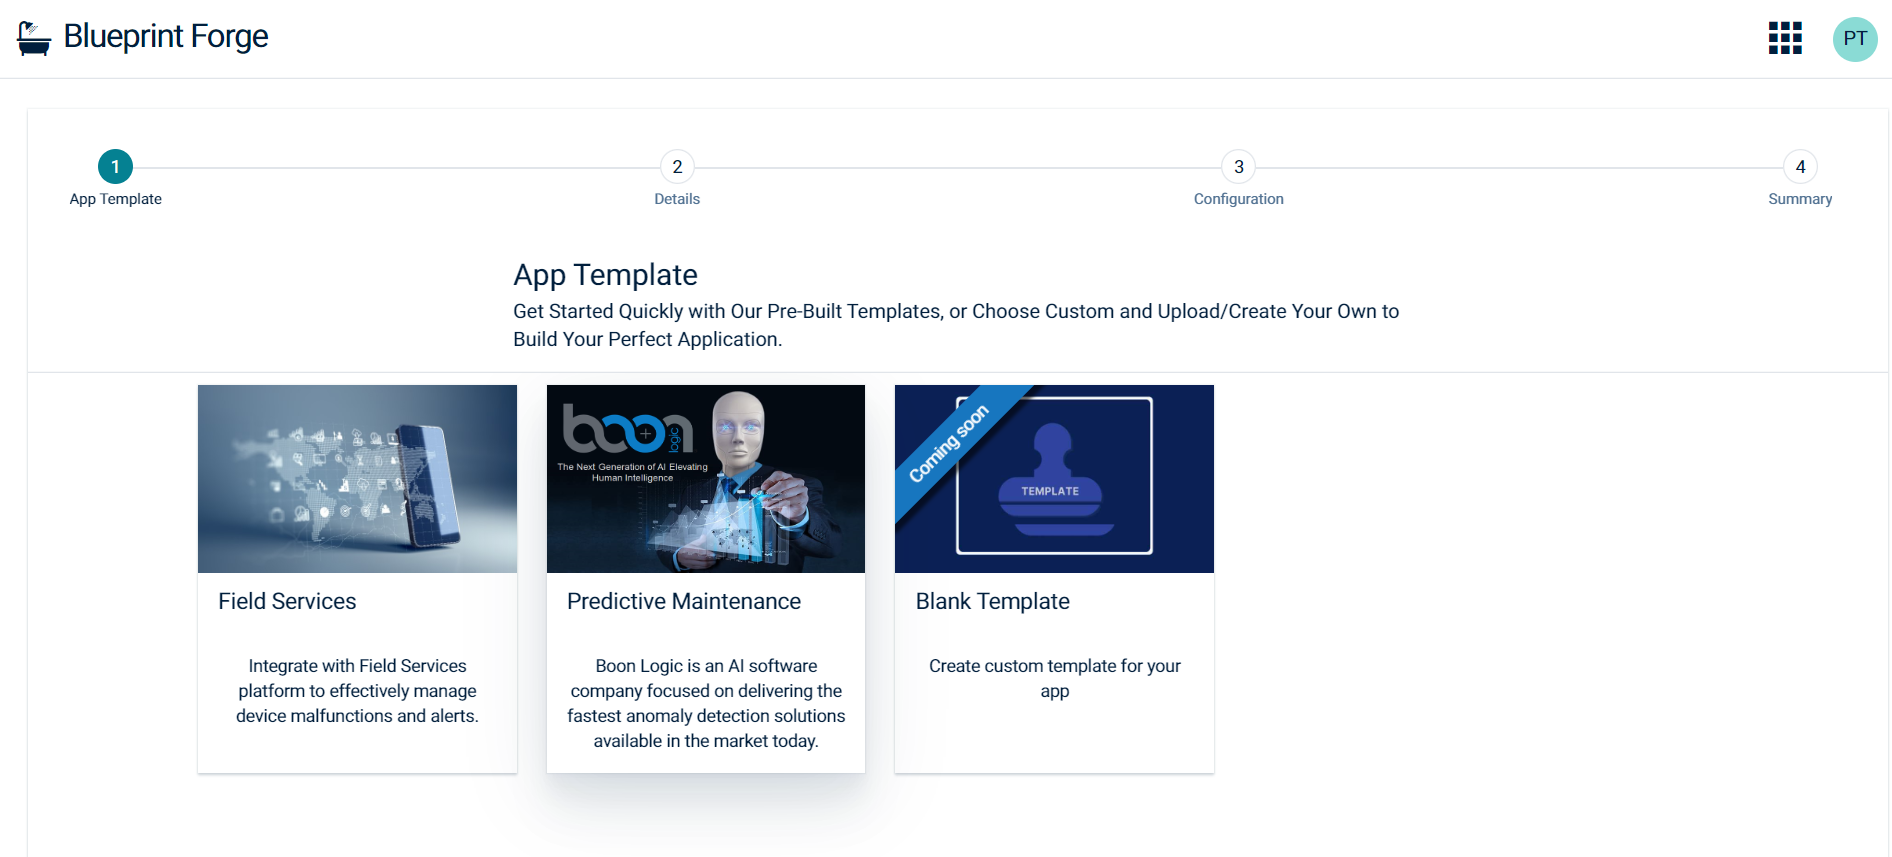
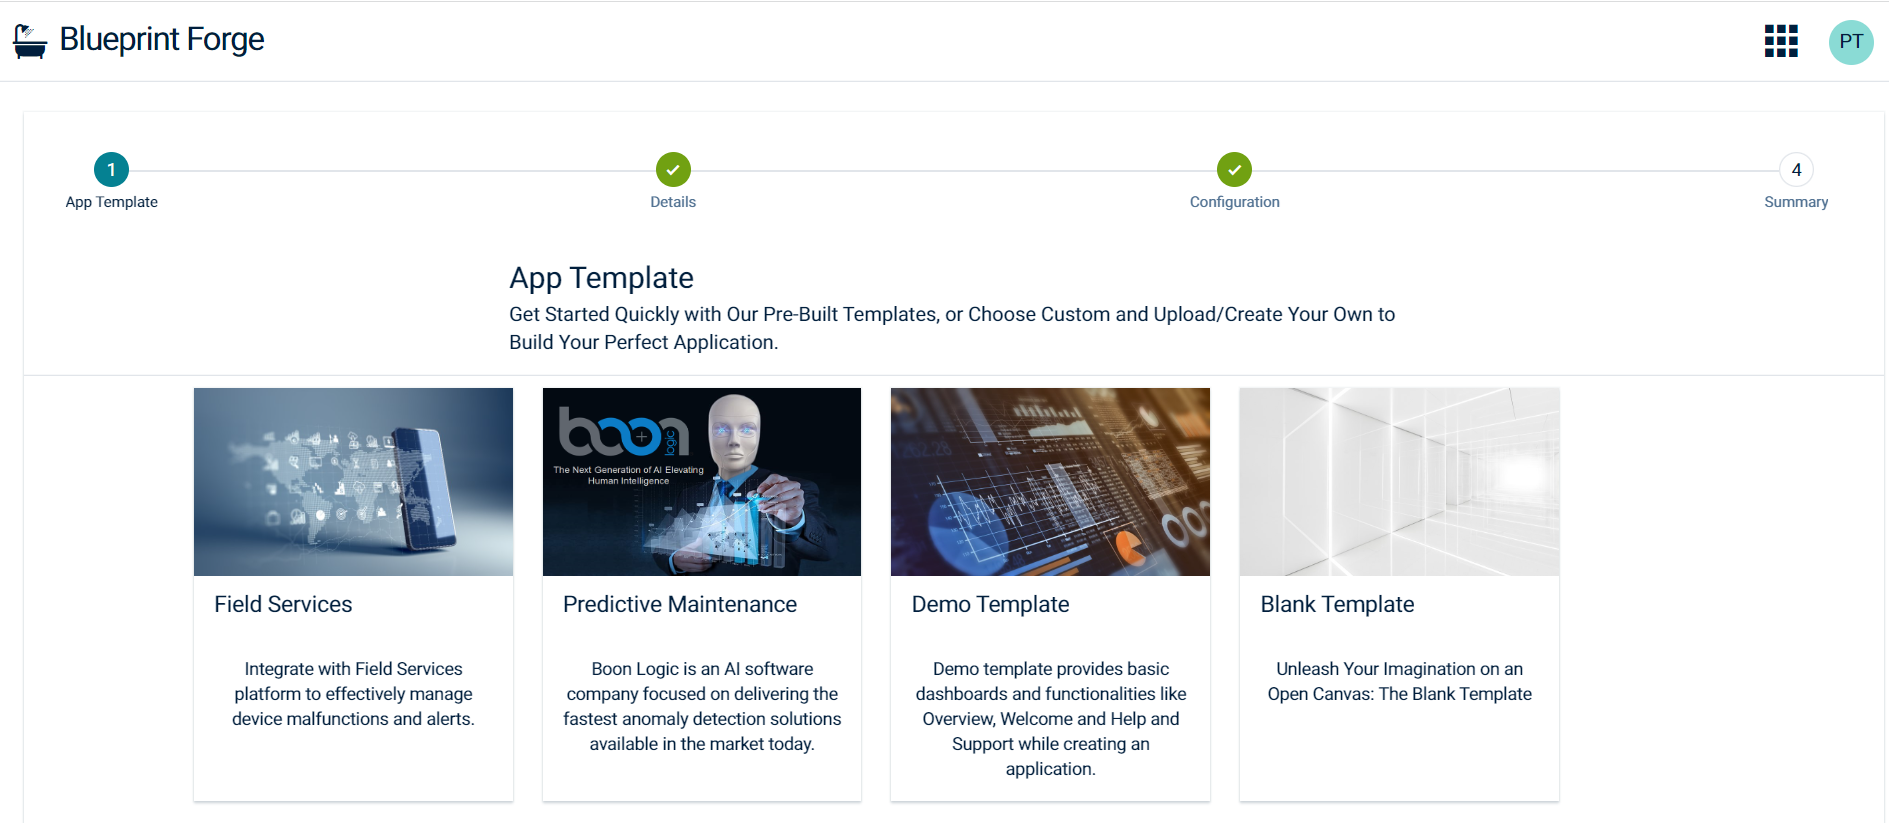
Package json and readme file changes

diff --git a/setup/template-steps/template-step-three-config/template-step-three-config.component.ts b/setup/template-steps/template-step-three-config/template-step-three-config.component.ts
@@ -208,17 +208,23 @@ async configureBasicInput(dashboard, index) {
     totalRemotes = totalRemotes + configDataMicroservices.length;
     totalRemotes = totalRemotes + configDataDashboards.length;
 
+    // this.showProgressModalDialog("Installing dependencies")
+
     const eachRemoteProgress: number = Math.floor((totalRemotes > 1 ? (90 / totalRemotes) : 0));
     let overallProgress = 0;
-    if (configDataPlugins && configDataPlugins.length > 0) {
-      this.showProgressModalDialog("Verifying plugins...")
-    }
+    this.showProgressModalDialog("Verifying dependencies...")
+    // if (configDataDashboards && configDataDashboards.length > 0) {
+    //   this.progressIndicatorService.setMessage('Installing dashboards');
+    // }
+    // if (configDataPlugins && configDataPlugins.length > 0) {
+    //   this.progressIndicatorService.setMessage(`Installing plugins`);
+    // }
     if (totalRemotes > 1) { this.progressIndicatorService.setOverallProgress(overallProgress) }
     this.progressIndicatorService.setOverallProgress(5);
     for (let plugin of configDataPlugins) {
       await this.installPlugin(plugin);
       overallProgress = overallProgress + eachRemoteProgress;
-      this.progressIndicatorService.setOverallProgress(overallProgress)
+      this.progressIndicatorService.setOverallProgress(overallProgress);
     };
     await new Promise(resolve => setTimeout(resolve, 1000));
     for (let ms of configDataMicroservices) {
@@ -292,9 +298,11 @@ async configureBasicInput(dashboard, index) {
           "tenantId": this.settingsService.getTenantName(),
       });
   }
-  if (configDataPlugins && configDataPlugins.length > 0) {
-    this.hideProgressModalDialog();
-  }
+  // if (configDataPlugins && configDataPlugins.length > 0) {
+  //   this.hideProgressModalDialog();
+  // }
+
+  this.hideProgressModalDialog();
     this.next();
   }
 

diff --git a/README.md b/README.md
@@ -10,6 +10,10 @@ with a seemless user experience.
 * **Easy Customizaton:** Provides option to select dashboards and unselect dashboards.
 * **Dashboard Catalog:** User can select any pre-designed template for dashboard and ability to install dependent runtime widgets.
 * **Installation of plugins and microservice:** Provides option to install plugins and microservices while creating an application.
+* **Provision to add essential dashboards:** Effortlessly Craft Applications Using Demo Template's Essential Dashboards and Features – Explore the Overview, Receive a Warm Welcome, Find Help and Support.
+* **Blank Template support:** The Blank Template Lets You Build Applications from Scratch, No Dashboards or Plugins Preselected.
+* **Support for Device group and Asset Type:** Link not just devices, user can also link Device Group and Asset type with the dashboard.
+* **Configure while creating:** User can configure the application while creating it.
 
 ## Installation
 
